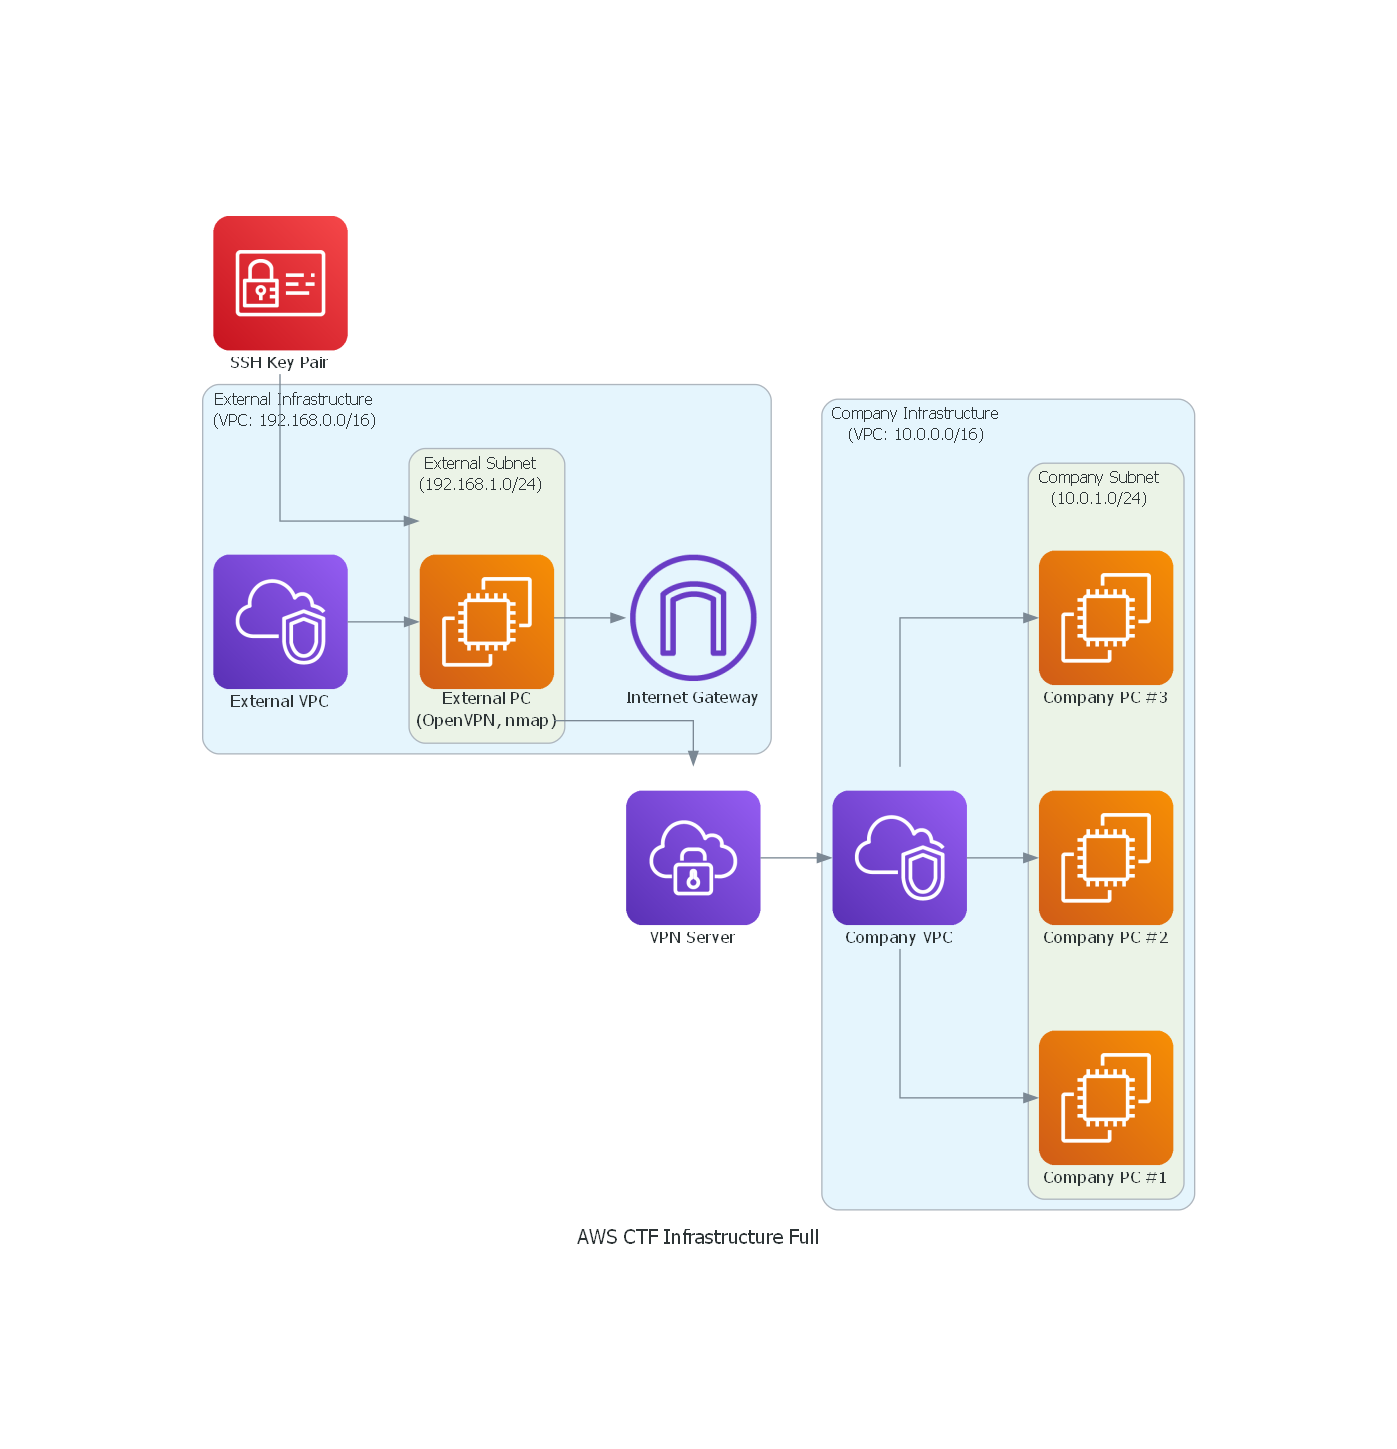
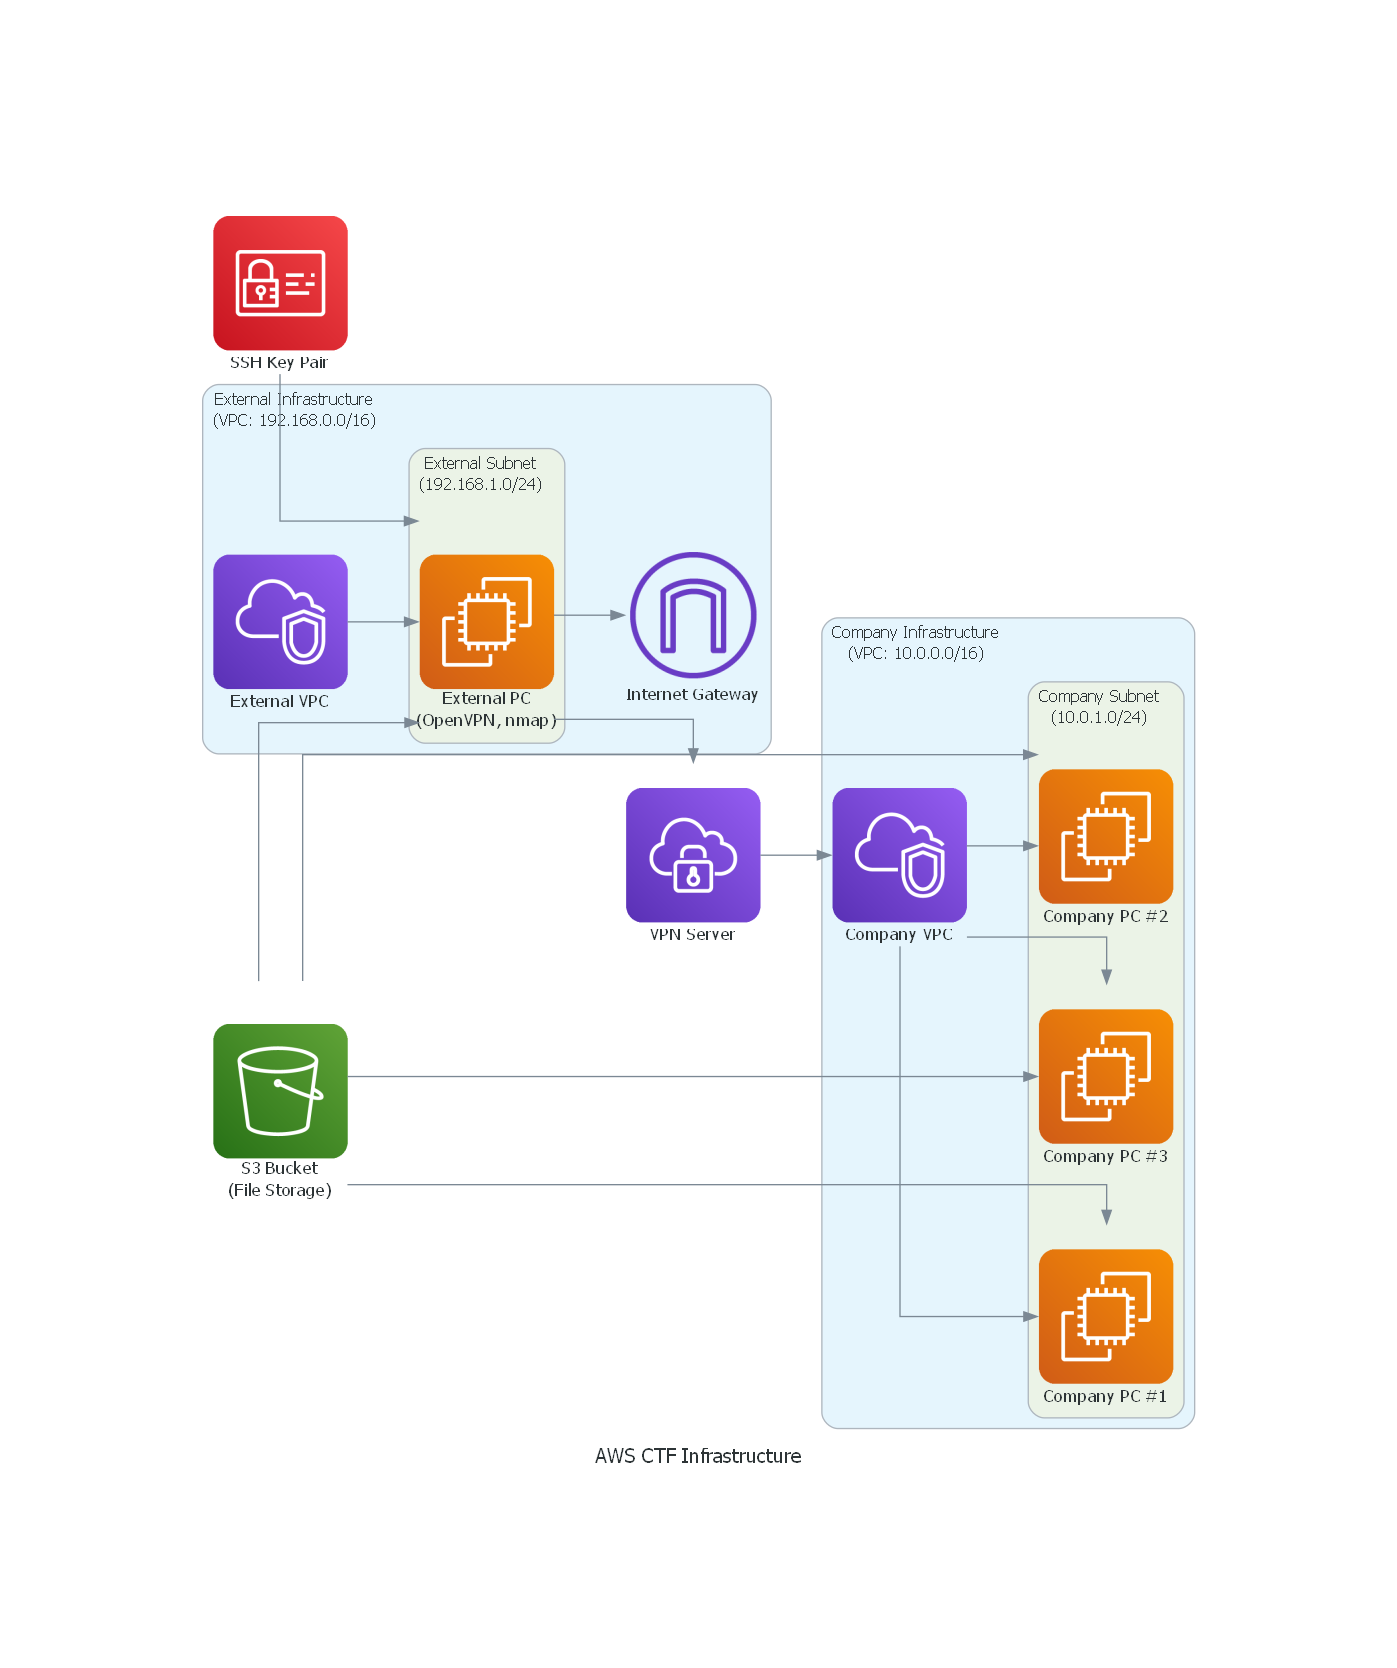
feat(diagram): add S3 Bucket to diagram

diff --git a/diagram.py b/diagram.py
@@ -2,6 +2,7 @@ from diagrams import Diagram, Cluster
 from diagrams.aws.compute import EC2
 from diagrams.aws.network import VPC, InternetGateway, ClientVpn
 from diagrams.aws.security import IAM
+from diagrams.aws.storage import S3
 
 with Diagram("AWS CTF Infrastructure", show=False):
     # Reprezentacja wygenerowanego klucza SSH (AWS Key Pair)
@@ -32,3 +33,7 @@ with Diagram("AWS CTF Infrastructure", show=False):
     ext_pc >> vpn
     vpn >> company_vpc
     company_vpc >> [pc1, pc2, pc3]
+
+    # S3 Bucket
+    s3_bucket = S3("S3 Bucket\n(File Storage)")
+    s3_bucket >> [pc1, pc2, pc3, ext_pc]
